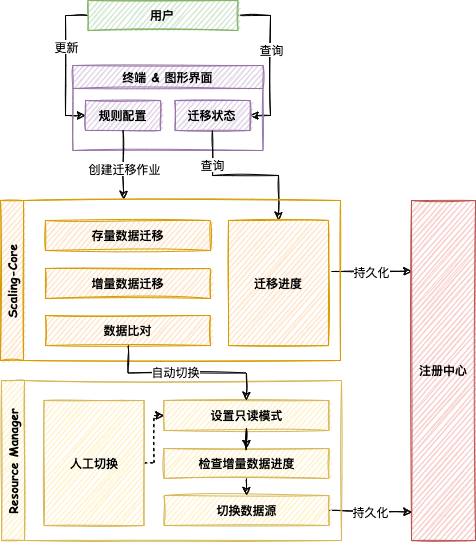
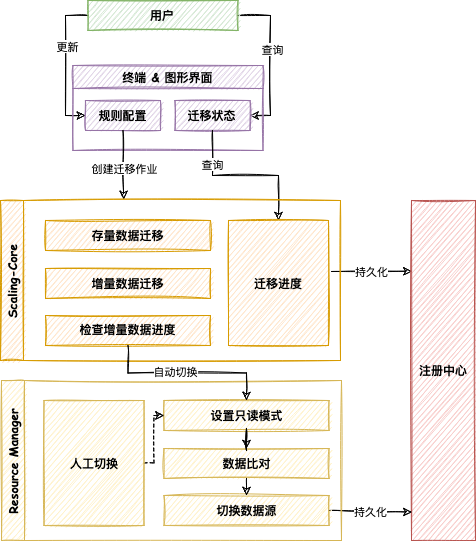
Update scaling overview picture and improve scaling usage doc (#14437)
* Update scaling overview picture

* Update scaling usage doc

diff --git a/docs/document/content/user-manual/shardingsphere-scaling/usage.en.md b/docs/document/content/user-manual/shardingsphere-scaling/usage.en.md
@@ -155,7 +155,7 @@ ADD RESOURCE ds_2 (
 );
 ```
 
-2. Alter sharding table rule
+2. Alter all sharding table rule
 
 Currently, scaling job could only be emitted by executing `ALTER SHARDING TABLE RULE` DistSQL.
 
@@ -201,6 +201,8 @@ GENERATED_KEY(COLUMN=order_item_id,TYPE(NAME=snowflake,PROPERTIES("worker-id"=12
 ```
 
 `algorithm-expression` of `database_inline` is alerted from `ds_${user_id % 2}` to `ds_${user_id % 3 + 2}`, and `DATANODES` of `t_order` is alerted from `ds_${0..1}.t_order_${0..1}` to `ds_${2..4}.t_order_${0..1}`, it will emit scaling job.
+
+Currently, `ALTER SHARDING ALGORITHM` will take effect immediately, but table rule will not, it might cause inserting data into source side failure, so alter sharding table rule to `AutoTableRule` is recommended for now.
 
 #### List scaling jobs
 

diff --git a/docs/document/content/user-manual/shardingsphere-scaling/usage.cn.md b/docs/document/content/user-manual/shardingsphere-scaling/usage.cn.md
@@ -153,7 +153,7 @@ ADD RESOURCE ds_2 (
 );
 ```
 
-2. 修改分片规则
+2. 修改所有表的分片规则
 
 目前只有通过执行 `ALTER SHARDING TABLE RULE` DistSQL 来触发迁移。
 
@@ -199,6 +199,8 @@ GENERATED_KEY(COLUMN=order_item_id,TYPE(NAME=snowflake,PROPERTIES("worker-id"=12
 ```
 
 `database_inline` 的 `algorithm-expression` 从 `ds_${user_id % 2}` 改为 `ds_${user_id % 3 + 2}`，`t_order` 的 `DATANODES` 从 `ds_${0..1}.t_order_${0..1}` 改为 `ds_${2..4}.t_order_${0..1}`，会触发迁移。
+
+目前 `ALTER SHARDING ALGORITHM` 会即时生效、但是规则还没生效，可能会导致源端 insert 异常，所以建议优先修改为 `AutoTableRule`。
 
 #### 查询所有迁移任务
 
